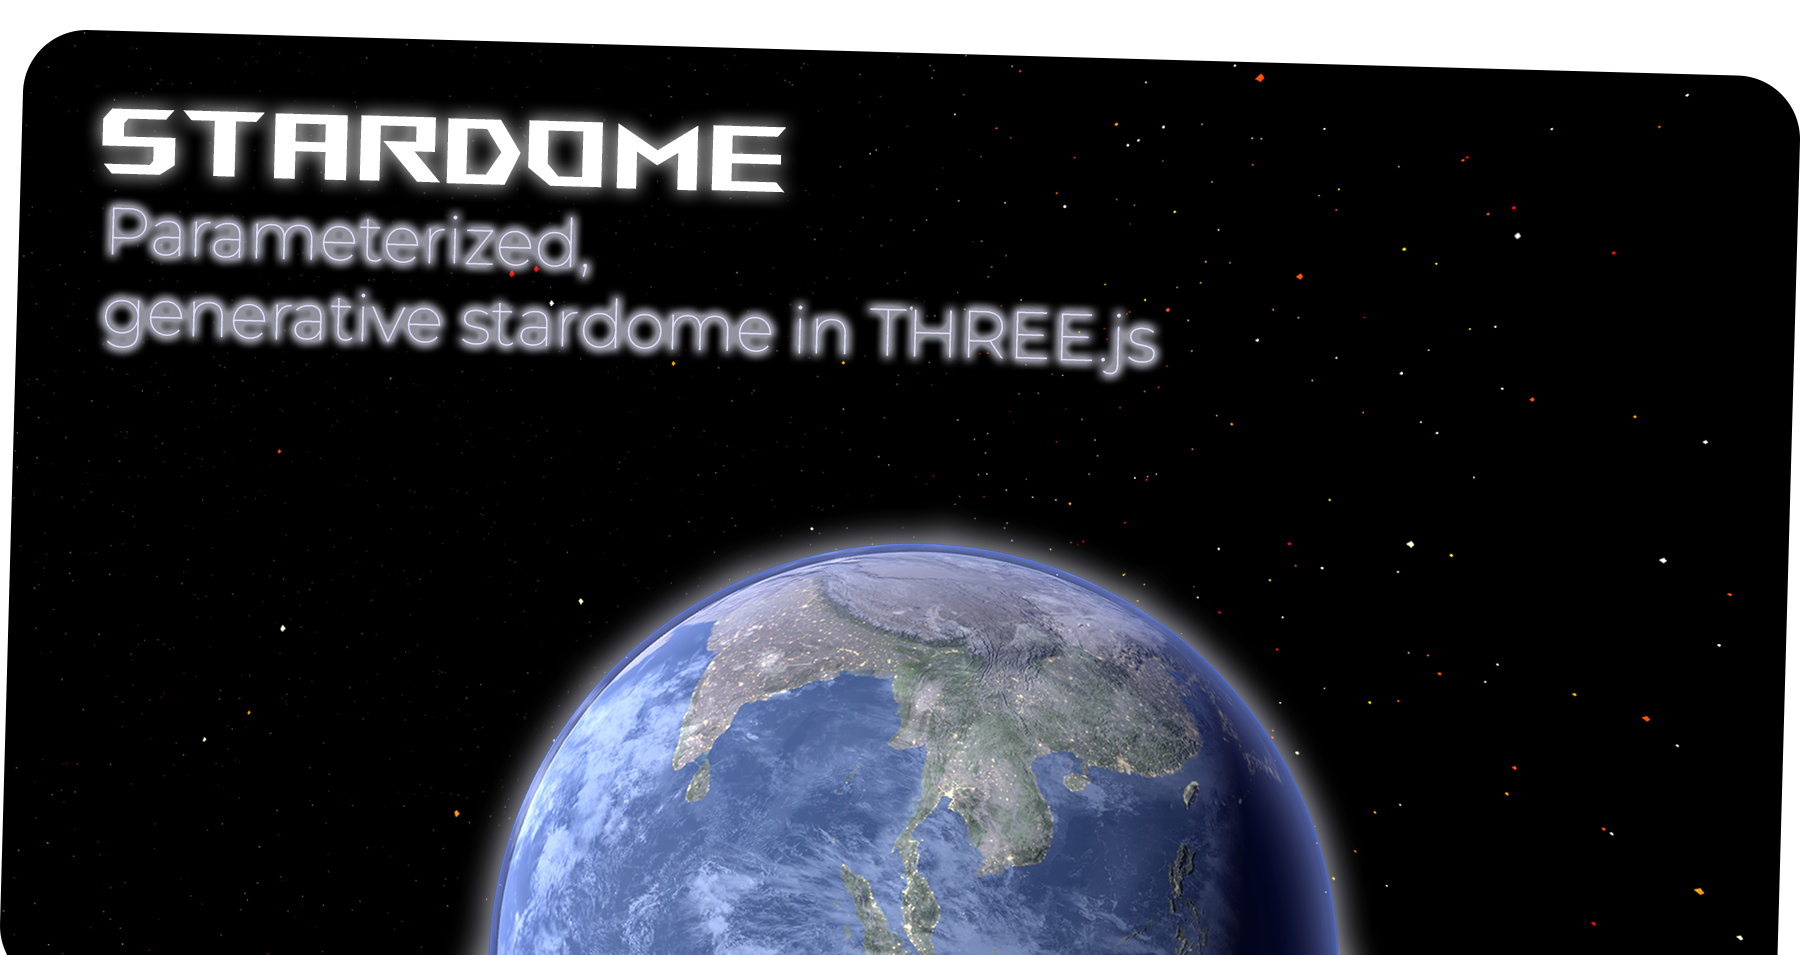
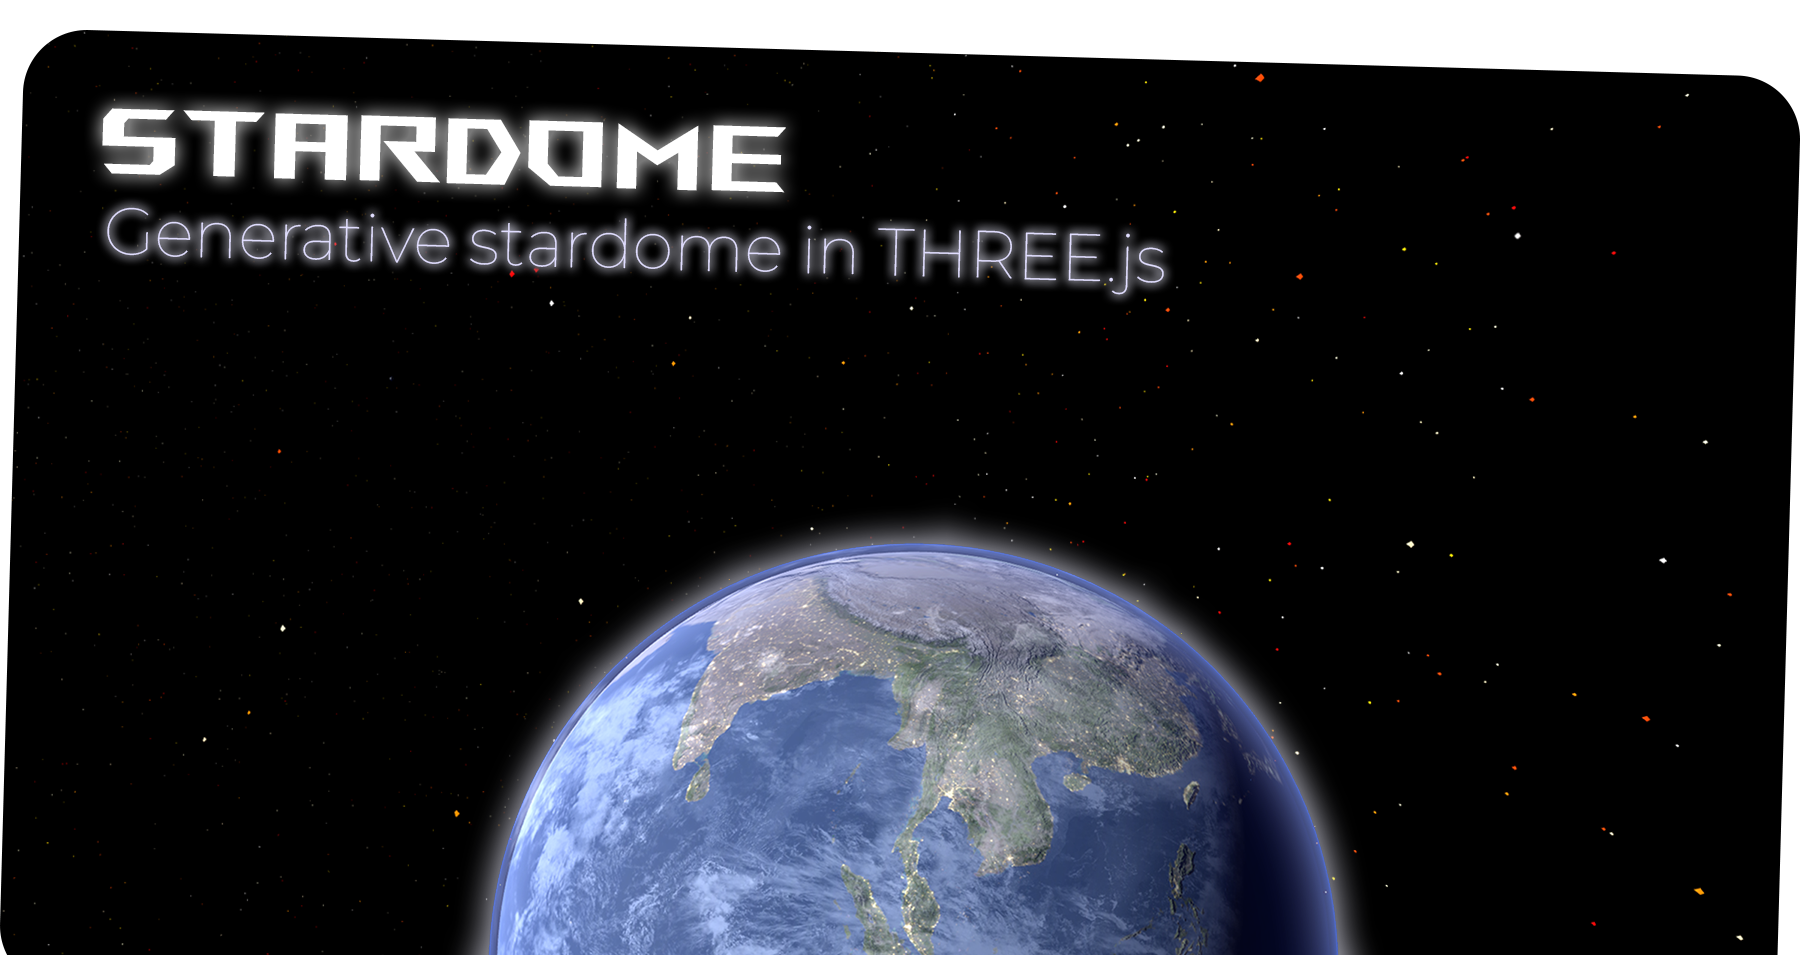
fix: add missing footer image
Additional Changes:
- change mini-header text
- update stardome img

Changed region(s): [[0.0311, 0.2126, 0.6533, 0.3948]]

diff --git a/components/Hero.tsx b/components/Hero.tsx
@@ -19,7 +19,7 @@ const Hero = () => {
                 </div>
                 <div className='flex justify-center relative mb-20 z-20'>
                     <div className='max-w-[89vw] md:max-w-2xl lg:max-w-[60vw] flex flex-col items-center justify-center'>
-                        <h2 className='uppercase tracking-widest text-xs text-center text-blue-100 w-full'>A glimpse of Dynamic WEB MAGIC via NEXT.JS + Aceternity UI</h2>
+                        <h2 className='uppercase tracking-widest text-xs text-center text-blue-100 w-full'>A glimpse of Dynamic WEB MAGIC via NEXT.JS</h2>
                         <TextGenerateEffect
                             className="text-center text-[40px] md:text-5xl lg:text-6xl select-none"
                             words='Crafting Innovation into Impactful Digital Experiences' />

diff --git a/components/Footer.tsx b/components/Footer.tsx
@@ -15,7 +15,7 @@ const Footer = () => {
     return (
         <footer className='w-full pt-10 pb-10' id="contact">
             <div className='w-full absolute left-0 '>
-                <img src='/footer-grid.svg' alt='grid' className='w-full h-[75vh] opacity-75 lg:-mt-32 -mt-16' />
+                <img src='./footer-grid.svg' alt='grid' className='w-full h-[75vh] opacity-75 lg:-mt-32 -mt-16' />
             </div>
             <div className='flex flex-col items-center'>
                 <h1 className='heading md:max-w-[45vw]'>Ready to Take <span className='text-purple'> your</span>  digital presence to the next level</h1>
